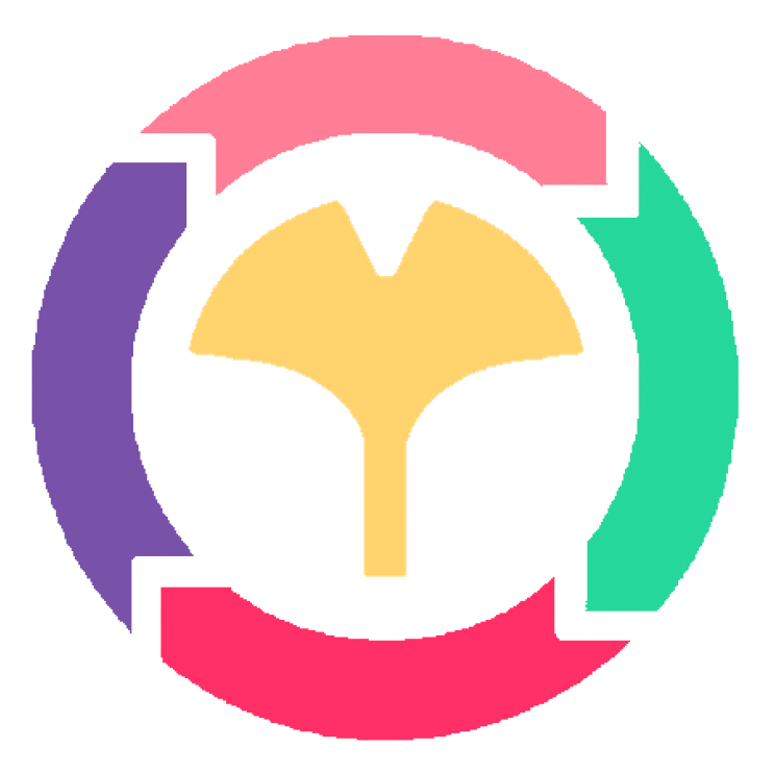
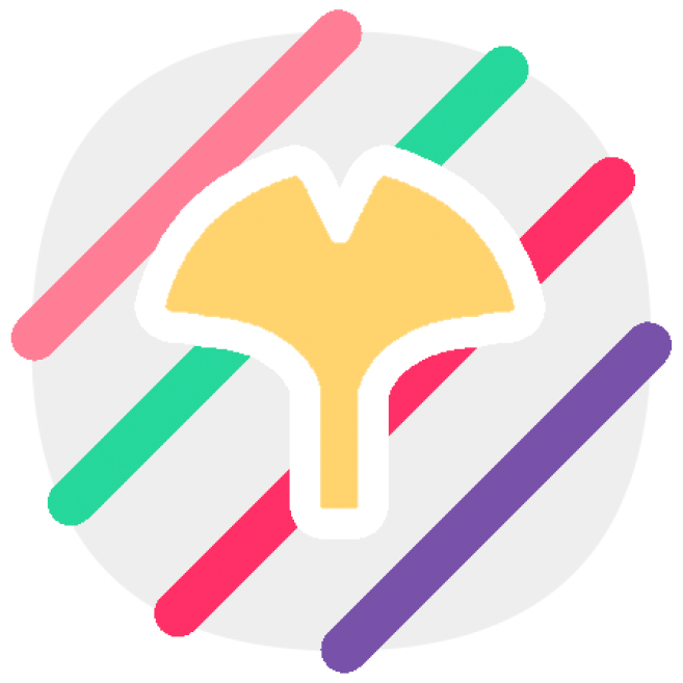
아이콘변경...

diff --git a/index.html b/index.html
@@ -9,20 +9,20 @@
     <meta name="apple-mobile-web-app-capable" content="yes">
     <title>여행당</title>
     <link rel="shortcut icon" href="./assets/icon.ico?v=1">
-    <link rel="apple-touch-icon" href="./assets/icon.png?v=0">
-    <link rel="apple-touch-icon-precomposed" href="./assets/icon.png?v=0">
+    <link rel="apple-touch-icon" href="./assets/icon.png?v=2">
+    <link rel="apple-touch-icon-precomposed" href="./assets/icon.png?v=2">
     <link rel="stylesheet" media="screen" href="./css/main.css?v=0.0.19">
     <link href='https://unpkg.com/boxicons@2.1.4/css/boxicons.min.css' rel='stylesheet'>
 </head>
 <body>
     <div id="firstPage">
-        <div id="logo"><img src="./assets/icon.png?v=0"></div>
+        <div id="logo"><img src="./assets/icon.png?v=2"></div>
         <div>여행당</div>
     </div>
 
 <div id="wrapper">
     <div id="title-box">
-        <div id="logo"><a href="./?p=index"><img src="./assets/icon.png?v=0"></a></div>
+        <div id="logo"><a href="./?p=index"><img src="./assets/icon.png?v=2"></a></div>
         <div id="title"></div>
         <div id="subtitle"></div>
     </div>
